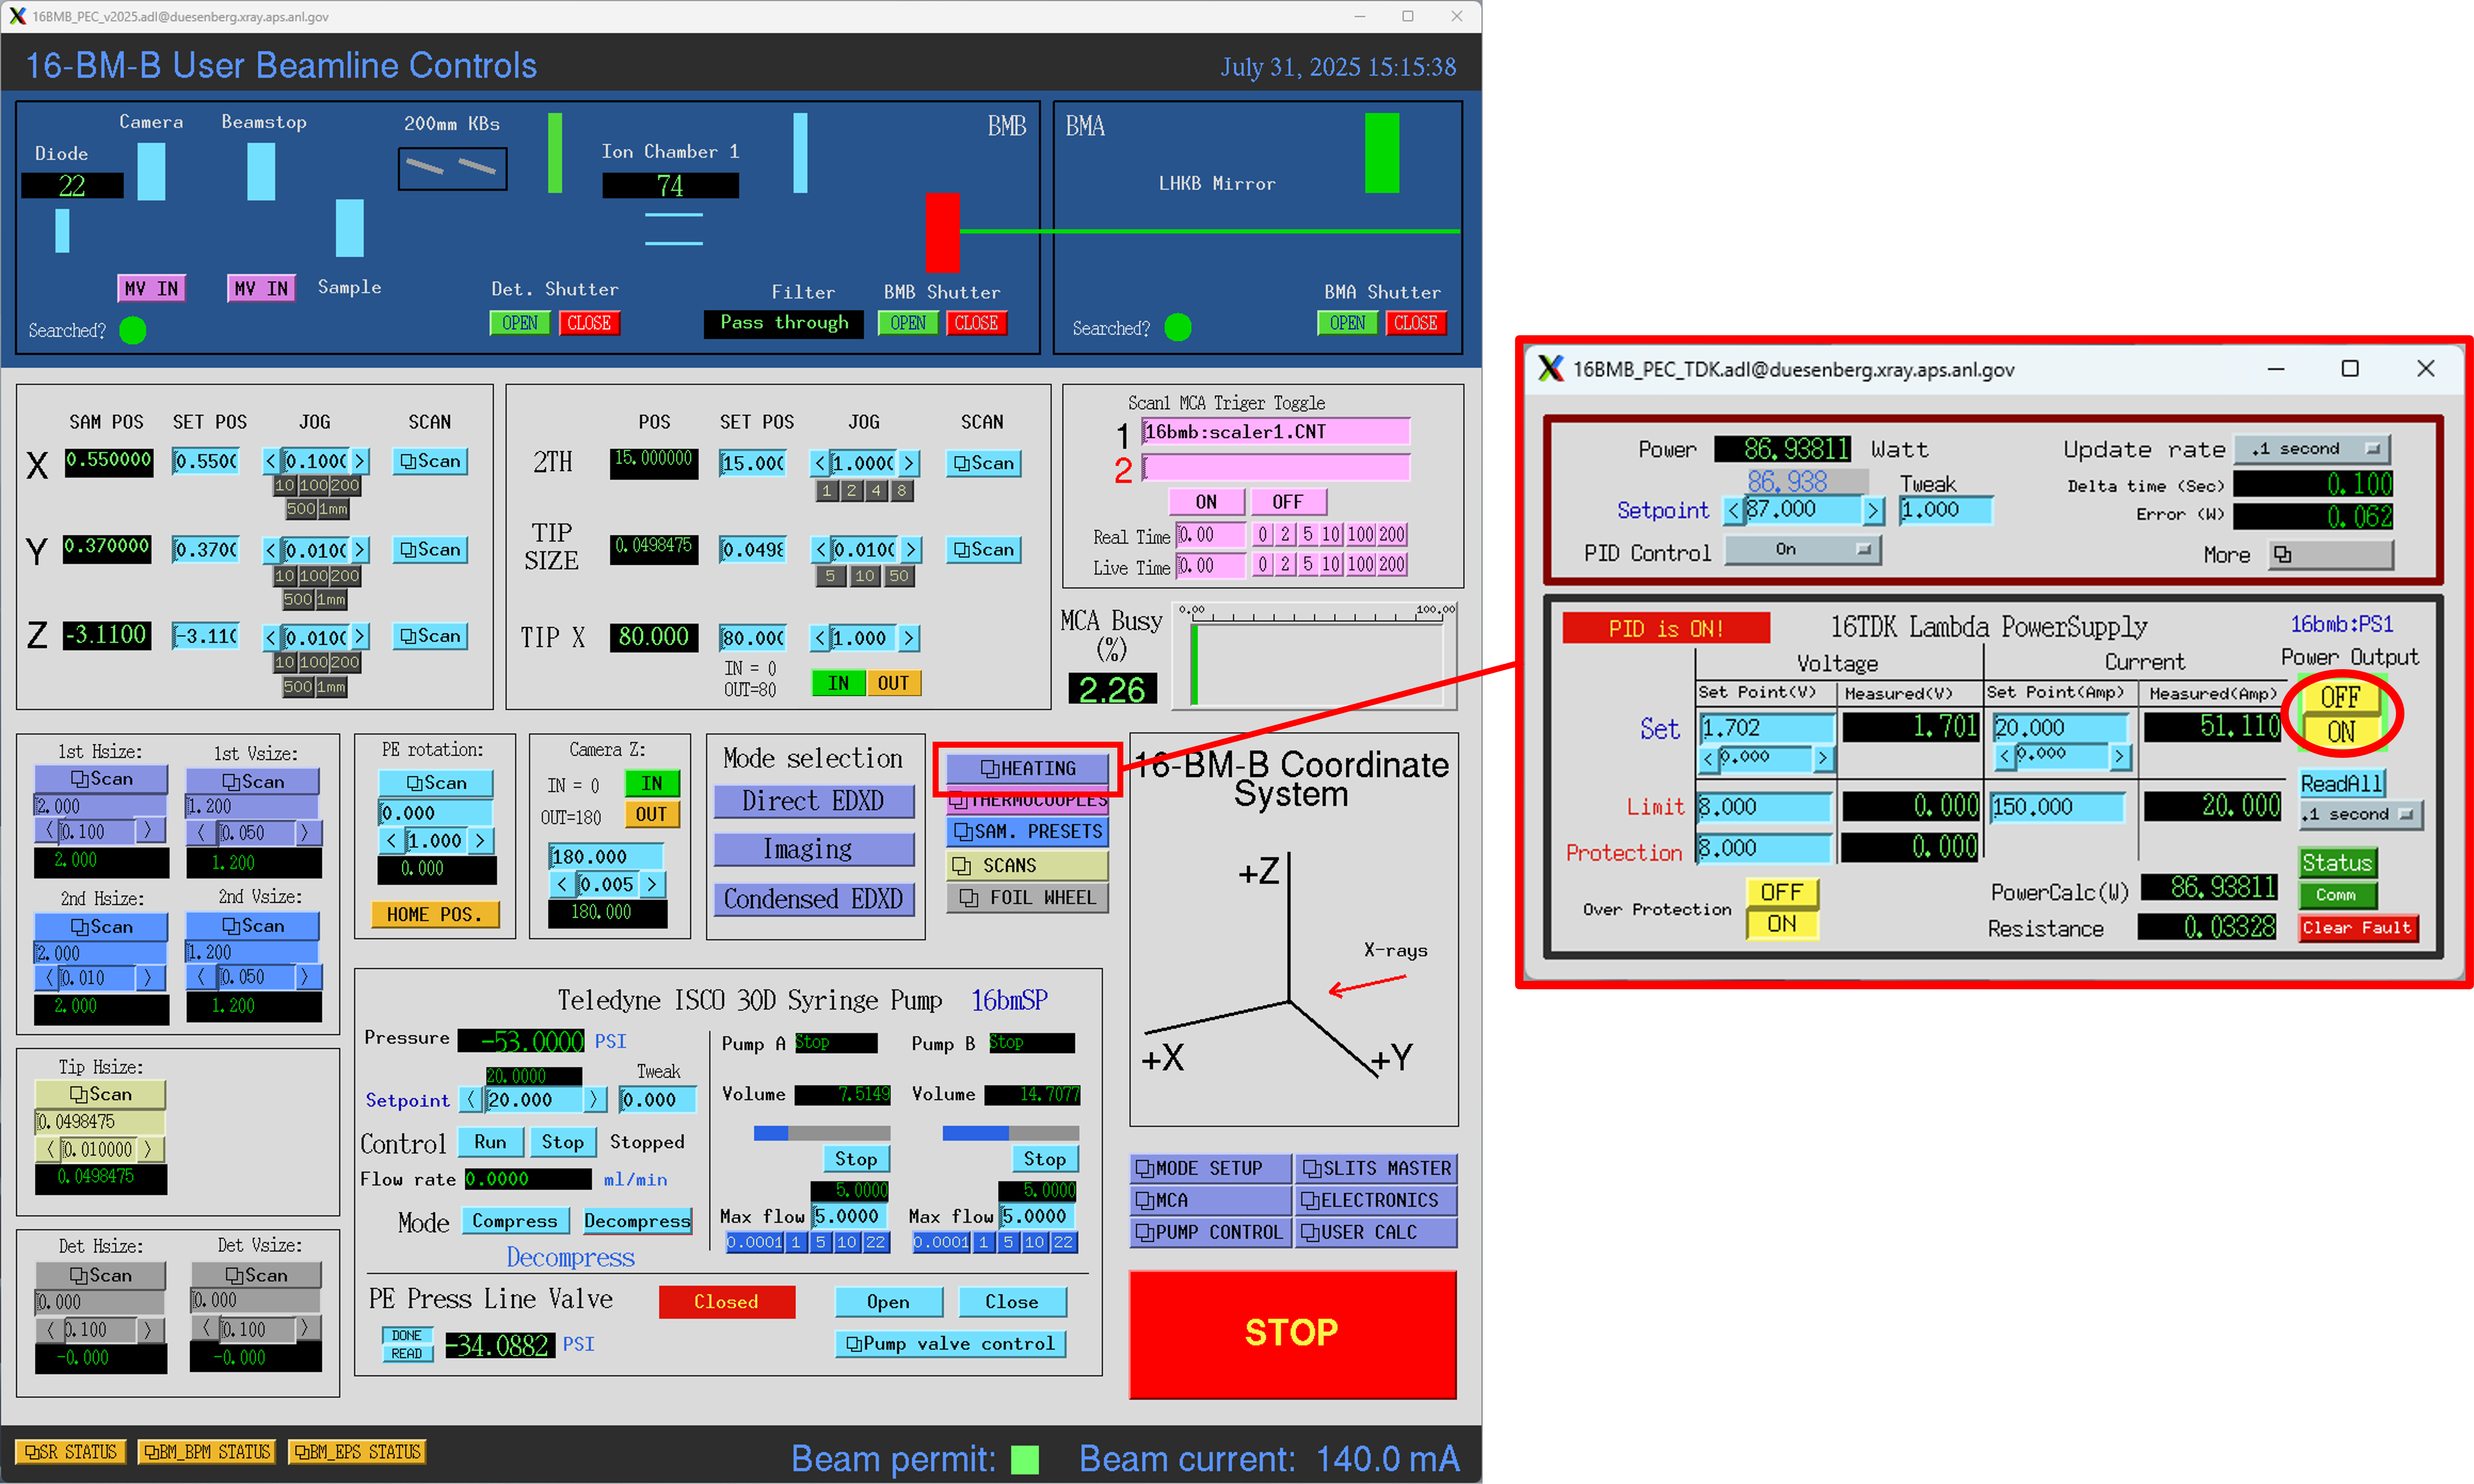
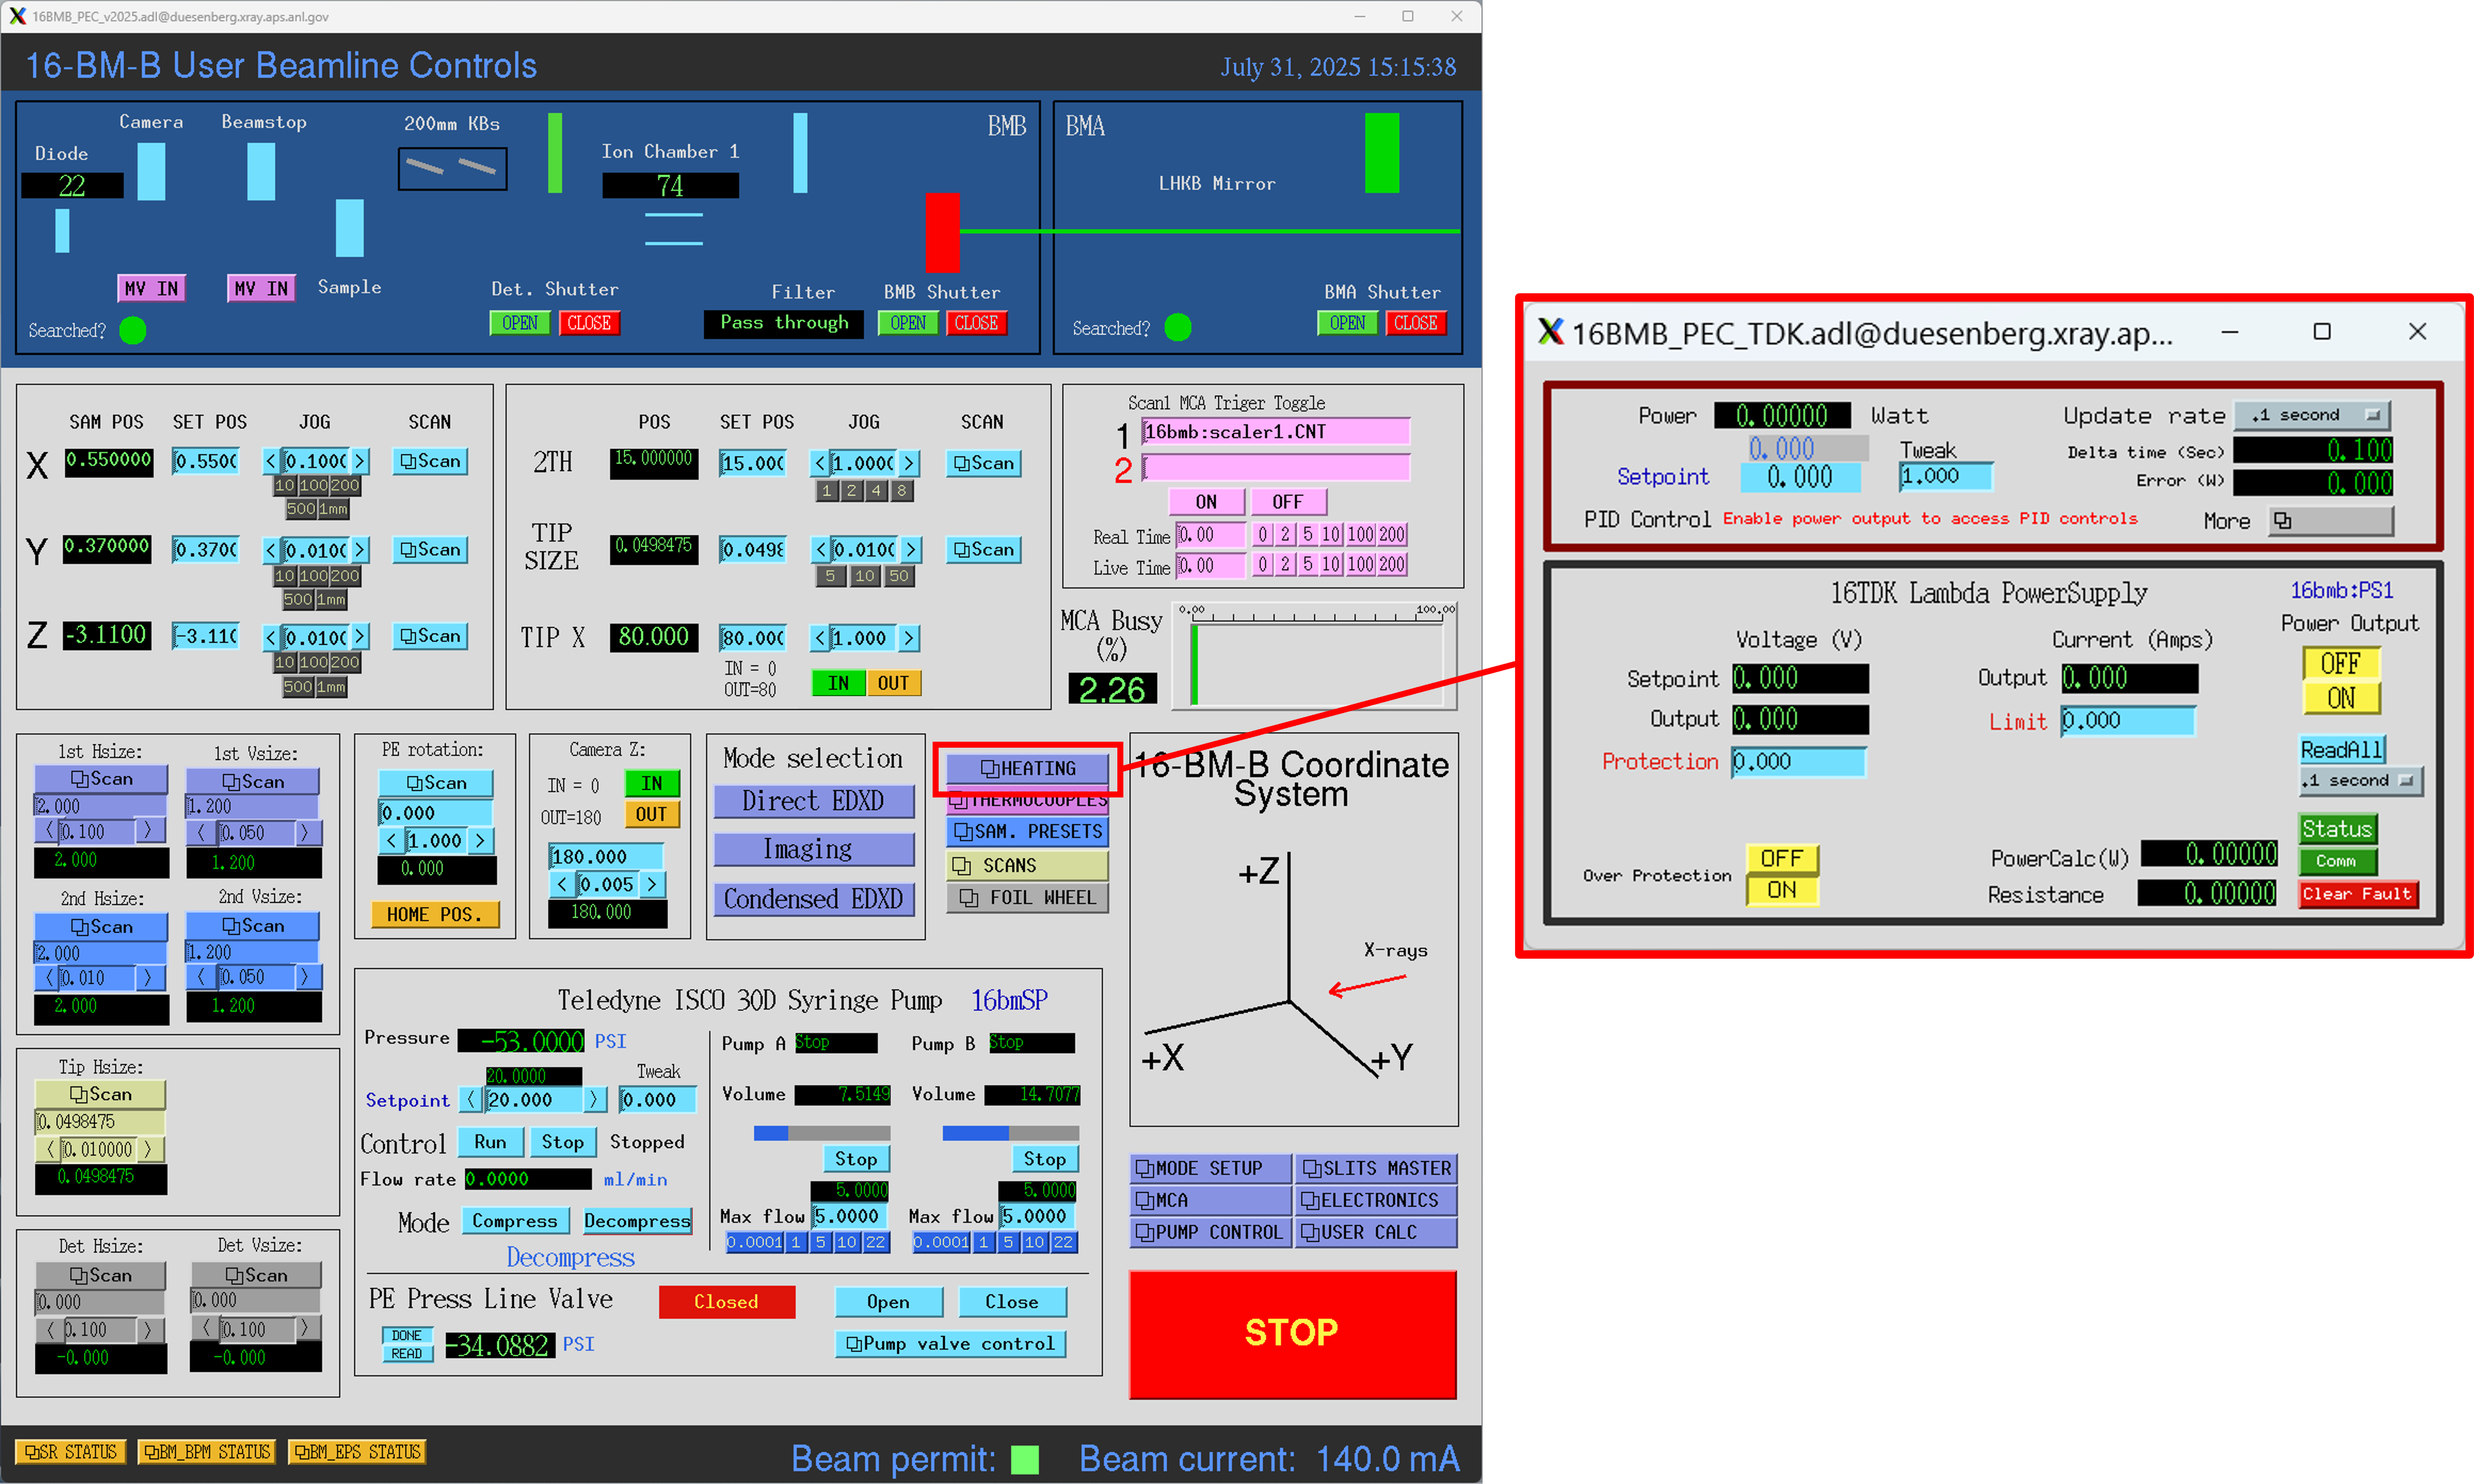
Added new power supply image

Changed region(s): [[0.5896, 0.1867, 1.0, 0.6844]]

diff --git a/docs/source/pressure.rst b/docs/source/pressure.rst
@@ -22,28 +22,30 @@ Procedure for increasing, maintaining, and decreasing pressure.
 Compression
 ^^^^^^^^^^^
 
-   1. Open the PE press line valve.
-   2. Make sure Mode is selected as “Compress”. 
+   1. Ensure the collimator tip is in the "out" position. 
+   2. Open the PE press line valve.
+   3. Make sure Mode is selected as “Compress”. 
 
    .. note:: Stop the Pressure Control before switching Mode. (Mode button is hidden while Pressure Control is in “Run” state). 
 
-   3. Refill pumps A and B (click the button :guilabel:`Refill` for each pump). 
+   4. Refill pumps A and B (click the button :guilabel:`Refill` for each pump). 
 
    .. note:: Wait until both pumps finish refilling.
 
-   4. Set Max flow for both pumps to 5ml/min.
+   5. Set Max flow for both pumps to 5ml/min.
    #. Set the Oil pressure setpoint to 20 psi.
+   #. Open the PE press line valve.
    #. Set Pressure control to Run. Pump will go through the initial equalization sequence; this will take around 30 seconds to one minute. 
 
    .. note:: Pressure may go up to ~80 psi and fluctuate somewhat during this process. 
       Wait until the Actual oil pressure stabilizes at 20 psi.
 
-   5. Increase the Oil pressure setpoint to your required pressure (maximum allowed is 12,000psi for standard anvils, 9,000psi for grooved and ultrasonic anvils). Pump will gradually reach the setpoint pressure and maintain the pressure continuously. 
+   #. Increase the Oil pressure setpoint to your required pressure (maximum allowed is 12,000psi for standard anvils, 9,000psi for grooved and ultrasonic anvils). Pump will gradually reach the setpoint pressure and maintain the pressure continuously. 
    #. If you don't want the pump to maintain the pressure continuously after reaching the setpoint, set the Maximum oil flow-rates for pumps A and B to 0.0001 ml/min. 
 
    .. important:: DO NOT switch Pressure Control to Stop.  
 
-   6. To reach the next oil pressure setpoint, re-enable pressure control by setting Max flow rates back to 5 ml/min.
+   #. To reach the next oil pressure setpoint, re-enable pressure control by setting Max flow rates back to 5 ml/min.
 
 Decompression
 ^^^^^^^^^^^^^
